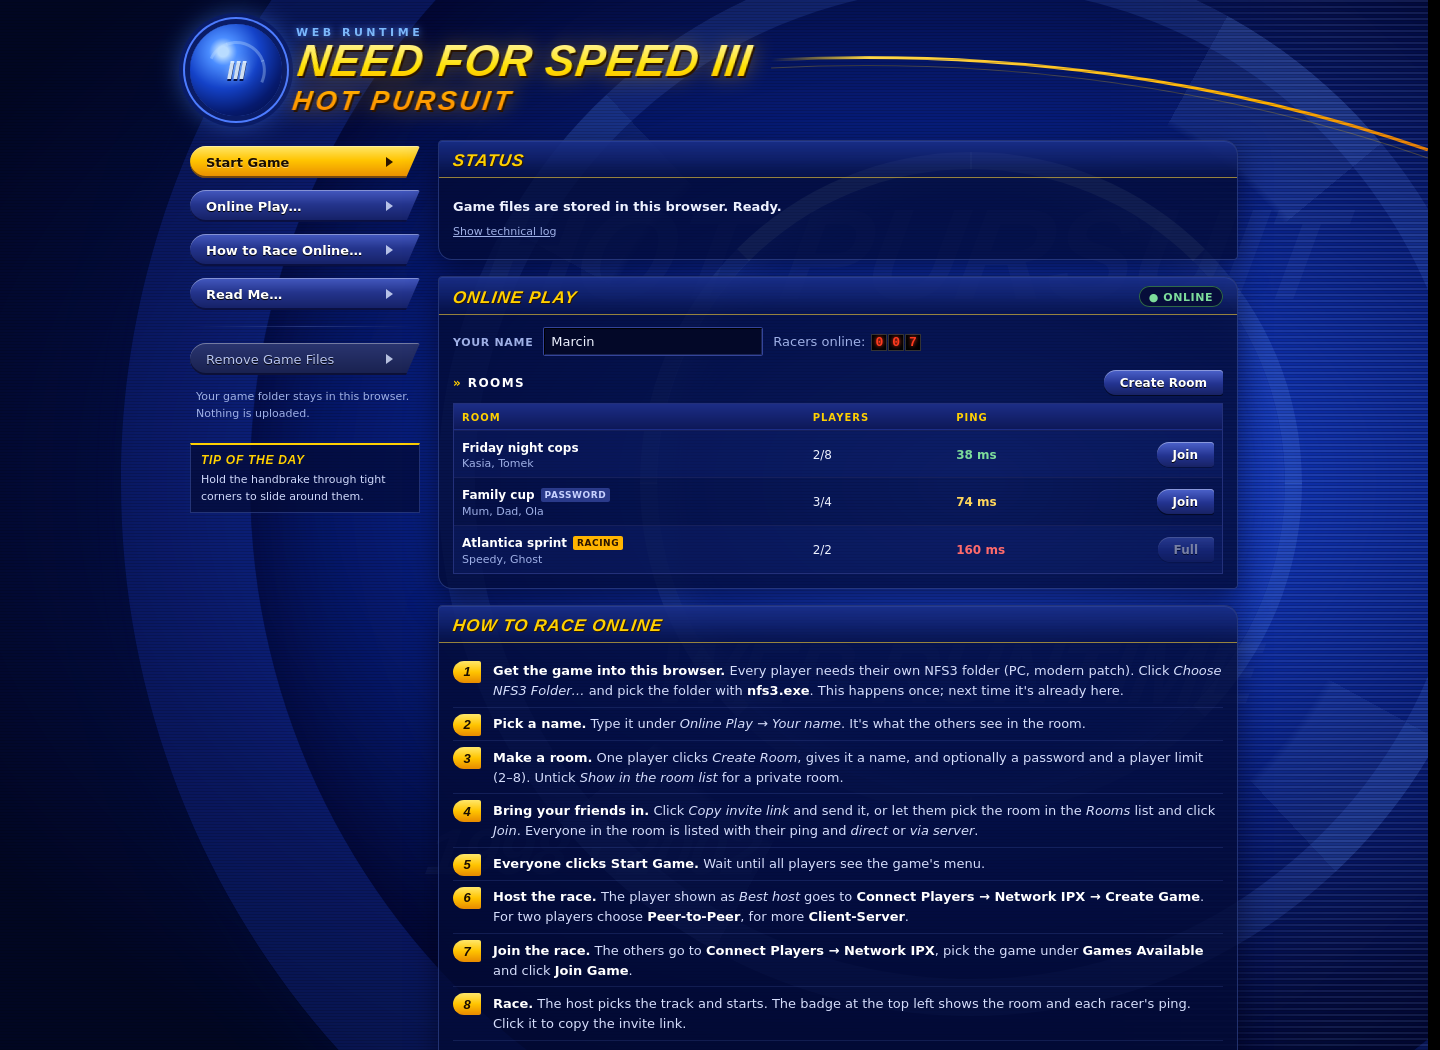
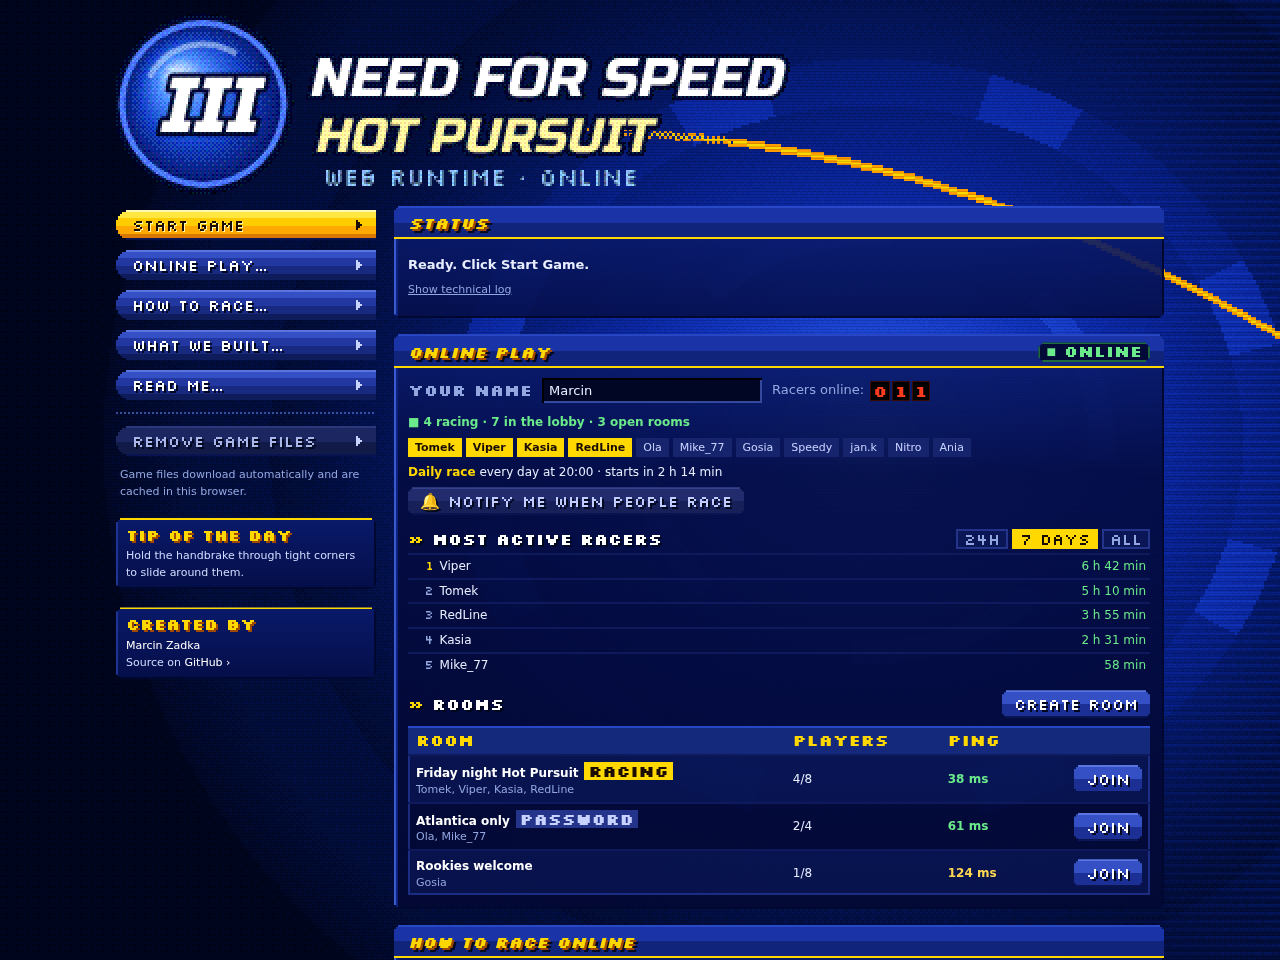
README screenshots and social preview in the new look
docs/og-card.html (the source of web/icons/og.png) now draws its backdrop
and logo with the site's own code; the README screenshots show the new
start page, a room and the phone layout. The README credits the fonts.

diff --git a/docs/og-card.html b/docs/og-card.html
@@ -1,41 +1,141 @@
 <!doctype html>
-<!-- Source of web/icons/og.png (1200x630 social preview). Render:
-     firefox --headless --no-remote --profile <tmp> --window-size=1200,630 --screenshot web/icons/og.png file://$PWD/docs/og-card.html -->
-<html><head><meta charset="utf-8"><style>
-  html, body { margin: 0; width: 1200px; height: 630px; overflow: hidden; background: #010622; font-family: Verdana, "DejaVu Sans", sans-serif; color: #eef2ff; }
-  .bg { position: absolute; inset: 0; background: radial-gradient(ellipse 75% 85% at 72% 50%, #2350e8 0%, #0e2fa8 28%, #061a72 52%, #030b3d 78%, #010622 100%); }
-  .ring { position: absolute; border-radius: 50%; left: 72%; top: 50%; transform: translate(-50%, -50%); }
-  .r1 { width: 1250px; height: 1250px; border: 95px solid rgba(30, 70, 220, .22); }
-  .r2 { width: 780px; height: 780px; border: 28px solid rgba(90, 140, 255, .15); }
-  .r3 { width: 430px; height: 430px; border: 10px solid rgba(160, 200, 255, .12); }
-  .stripes { position: absolute; right: 0; top: 0; bottom: 0; width: 260px; background: repeating-linear-gradient(0deg, rgba(150, 190, 255, .12) 0 2px, transparent 2px 9px);
-    -webkit-mask-image: linear-gradient(90deg, transparent, #000); mask-image: linear-gradient(90deg, transparent, #000); }
-  .scan { position: absolute; inset: 0; background: repeating-linear-gradient(0deg, rgba(0, 0, 0, .16) 0 1px, transparent 1px 3px); }
-  svg.arc { position: absolute; inset: 0; }
-  .orb { position: absolute; left: 70px; top: 70px; width: 150px; height: 150px; border-radius: 50%;
-    background: radial-gradient(circle at 36% 30%, #b9dcff 0 6%, #4b8dff 16%, #1442c8 42%, #061a6e 70%, #020a35 100%);
-    box-shadow: 0 0 0 8px #0a1c66, 0 0 0 11px #4d7cff, 0 0 0 17px #0a1c66, 0 0 40px 12px rgba(70, 130, 255, .55);
-    display: grid; place-items: center; font: italic 900 46px "Arial Black", "DejaVu Sans", sans-serif; color: #e1f0ff; text-shadow: 0 3px 0 #031047, 0 0 14px rgba(140, 190, 255, .9); letter-spacing: -2px; }
-  .txt { position: absolute; left: 70px; top: 262px; }
-  .kick { font: bold 22px Verdana, sans-serif; letter-spacing: .34em; text-transform: uppercase; color: #9fc0ff; }
-  h1 { margin: 6px 0 0; font: italic 900 96px/0.98 "Arial Black", "DejaVu Sans", sans-serif; text-transform: uppercase; letter-spacing: -1px;
-    background: linear-gradient(180deg, #fff6b0 0%, #ffd000 45%, #ff9900 100%); -webkit-background-clip: text; background-clip: text; color: transparent;
-    filter: drop-shadow(4px 4px 0 #2a1400) drop-shadow(0 0 18px rgba(255, 190, 0, .35)); }
-  h1 span { display: block; font-size: 62px; color: transparent; }
-  .tags { margin-top: 30px; display: flex; gap: 14px; }
-  .tag { font: bold 21px Verdana, sans-serif; color: #fff; padding: 9px 30px 9px 20px; background: linear-gradient(180deg, #4459c0 0%, #24348c 45%, #141f63 100%);
-    border-radius: 22px 4px 4px 22px; clip-path: polygon(0 0, 100% 0, calc(100% - 16px) 100%, 0 100%); text-shadow: 0 1px 1px #000; }
-  .tag.go { background: linear-gradient(180deg, #ffe76a 0%, #ffc400 45%, #e88a00 100%); color: #1a0d00; text-shadow: none; }
+<!-- Source of web/icons/og.png (1200x630 social preview), in the site's own style: the backdrop
+     and the logo are drawn by the same code as web/index.html. Render:
+     chrome --headless=new --hide-scrollbars --window-size=1200,630 --virtual-time-budget=4000 \
+       --screenshot=web/icons/og.png file://$PWD/docs/og-card.html -->
+<html><head><meta charset="utf-8"><base href="../web/"><style>
+  @font-face { font-family: "Silkscreen"; font-weight: 400; src: url(fonts/silkscreen-latin-400-normal.woff2) format("woff2"); }
+  @font-face { font-family: "Silkscreen"; font-weight: 700; src: url(fonts/silkscreen-latin-700-normal.woff2) format("woff2"); }
+  @font-face { font-family: "Russo One"; font-weight: 400; src: url(fonts/russo-one-latin-400-normal.woff2) format("woff2"); }
+  html, body { margin: 0; width: 1200px; height: 630px; overflow: hidden; background: #000418; color: #e8eeff; font-family: Verdana, "DejaVu Sans", sans-serif;
+    -webkit-font-smoothing: none; }
+  #bg { position: absolute; inset: 0; }
+  #bg canvas { position: absolute; inset: 0; width: 1200px; height: 630px; image-rendering: pixelated; }
+  #bg .scan { position: absolute; inset: 0; background: repeating-linear-gradient(0deg, rgba(0, 0, 0, .14) 0 1px, transparent 1px 3px); }
+  #logo { position: absolute; left: 60px; top: 56px; image-rendering: pixelated; }
+  .txt { position: absolute; left: 72px; top: 296px; }
+  .kick { font: 700 32px/1 "Silkscreen", monospace; color: #ffd800; text-transform: uppercase; text-shadow: 3px 3px 0 #6a2c00, 6px 6px 0 #000820; font-style: italic; }
+  .line { margin-top: 18px; font: bold 30px/1.35 Verdana, "DejaVu Sans", sans-serif; color: #e8eeff; text-shadow: 2px 2px 0 #000a30; max-width: 760px; }
+  .tags { margin-top: 34px; display: flex; gap: 16px; }
+  .tag { font: 400 24px/1 "Silkscreen", monospace; color: #fff; text-transform: uppercase; padding: 12px 22px 12px 26px; text-shadow: 2px 2px 0 #000820;
+    clip-path: polygon(14px 0, 100% 0, 100% 100%, 14px 100%, 14px calc(100% - 2px), 8px calc(100% - 2px), 8px calc(100% - 4px), 6px calc(100% - 4px), 6px calc(100% - 6px),
+      4px calc(100% - 6px), 4px calc(100% - 8px), 2px calc(100% - 8px), 2px calc(100% - 14px), 0 calc(100% - 14px), 0 14px, 2px 14px, 2px 8px, 4px 8px, 4px 6px, 6px 6px, 6px 4px, 8px 4px, 8px 2px, 14px 2px);
+    background: linear-gradient(180deg, #5a74e0 0 3px, #3550c4 3px 12px, #2238a0 12px 24px, #172a80 24px 36px, #0e1c5c 36px); }
+  .tag.go { color: #1a0c00; text-shadow: 2px 2px 0 #fff6b0; background: linear-gradient(180deg, #fff8b0 0 3px, #ffe640 3px 12px, #ffcc00 12px 24px, #ffa800 24px 36px, #d87800 36px); }
+  .url { position: absolute; right: 60px; bottom: 44px; font: 700 28px/1 "Silkscreen", monospace; color: #8cc4ff; text-shadow: 3px 3px 0 #000820; }
 </style></head><body>
-  <div class="bg"></div><div class="ring r1"></div><div class="ring r2"></div><div class="ring r3"></div>
-  <div class="stripes"></div>
-  <svg class="arc" viewBox="0 0 1200 630"><path d="M600 40 C 820 26, 1020 70, 1180 160" fill="none" stroke="#ffd000" stroke-width="7" stroke-linecap="round"/>
-    <path d="M640 600 C 860 560, 1040 520, 1200 440" fill="none" stroke="#ffd000" stroke-opacity=".5" stroke-width="4"/></svg>
-  <div class="orb">III</div>
+  <div id="bg" aria-hidden="true"><canvas id="bgc" width="400" height="210"></canvas><div class="scan"></div></div>
+  <canvas id="logo" width="360" height="90"></canvas>
   <div class="txt">
     <div class="kick">Play in your browser</div>
-    <h1>NFS3<span>Hot Pursuit</span></h1>
-    <div class="tags"><div class="tag go">No install</div><div class="tag">Online multiplayer</div><div class="tag">WebGL&nbsp;2</div></div>
+    <div class="line">The 1998 classic, recompiled for the web. Original handling, tracks and music.</div>
+    <div class="tags"><div class="tag go">No install</div><div class="tag">Online multiplayer</div><div class="tag">WebGL 2</div></div>
   </div>
-  <div class="scan"></div>
+  <div class="url">nfs3.xyz</div>
+<script>
+// Lo-fi look (see the comment at the top): the backdrop and the logo are drawn at low resolution
+// with an ordered (Bayer) dither to a small palette and shown scaled up with hard pixels.
+(() => {
+  const BAYER = [0, 8, 2, 10, 12, 4, 14, 6, 3, 11, 1, 9, 15, 7, 13, 5].map((v) => (v + .5) / 16);
+  const hex = (h) => [1, 3, 5].map((i) => parseInt(h.slice(i, i + 2), 16));
+  const RAMP = ['#000418', '#010a30', '#03124e', '#05196e', '#08218e', '#0c2cac', '#1438c4', '#1e48d8', '#3060e8', '#4c7cf4', '#7aa4ff', '#b0ccff'].map(hex);
+  const BLUES = [];                                                             // 34 shades: a gentle dither, not a blocky one
+  for (let i = 0; i < RAMP.length - 1; i++) for (let k = 0; k < 3; k++) BLUES.push(RAMP[i].map((v, c) => Math.round(v + (RAMP[i + 1][c] - v) * k / 3)));
+  BLUES.push(RAMP.at(-1));
+  const GOLD = ['#5a2400', '#a04800', '#e07800', '#ff9c00', '#ffc000', '#ffd800', '#fff080'].map(hex);
+  const reduce = matchMedia('(prefers-reduced-motion: reduce)').matches;
+
+  // ---- backdrop: big rings around a glow, a rotating segmented ring, a gold arc, stripes
+  const bg = document.getElementById('bgc'), bx = bg.getContext('2d');
+  let W = 400, H = 210, img = null;
+  function size() {
+    H = 210;
+    if (bg.height !== H) { bg.width = W; bg.height = H; }
+    img = bx.createImageData(W, H);
+  }
+  function arcY(x) { const t = (x - .45 * W) / (.55 * W); return Math.min(W * .1, H * .16) + W * .16 * t * t; }   // sweeps down to the right, behind the header
+  function drawBg(t) {
+    const d = img.data, cx = .68 * W, cy = .46 * H, R = Math.max(W, H * 1.2);
+    const rot = reduce ? 0 : t * .00012;
+    for (let y = 0; y < H; y++) for (let x = 0; x < W; x++) {
+      const dx = (x - cx) / R, dy = (y - cy) / R * 1.1, r = Math.hypot(dx, dy), a = Math.atan2(dy, dx);
+      let v = Math.max(0, 1 - r / .62) ** 1.6 * .78 + .04;                      // glow
+      if (r > .47 && r < .60) v += .07 - Math.abs(r - .535) * .6;              // outer ring
+      if (r > .29 && r < .33) { const s = ((a + rot) / (Math.PI / 4) % 1 + 1) % 1; v += s < .3 ? .16 : .04; }  // segmented ring
+      if (r > .17 && r < .19) { const s = ((a - rot * 1.6) / (Math.PI / 2) % 1 + 1) % 1; v += s < .55 ? .1 : 0; }
+      if (x > W * .8 && y % 3 === 0) v += (x - W * .8) / (W * .2) * .08;       // right stripes
+      const k = BAYER[(y & 3) * 4 + (x & 3)];
+      const i = Math.max(0, Math.min(BLUES.length - 1, Math.floor(v * (BLUES.length - 1) + k - .5)));
+      const c = BLUES[i], o = (y * W + x) * 4;
+      d[o] = c[0]; d[o + 1] = c[1]; d[o + 2] = c[2]; d[o + 3] = 255;
+    }
+    if (W > H * 1.2) for (let x = Math.round(W * .45); x < W; x++) {           // gold arc (landscape only), fading in from the left
+      const y = Math.round(arcY(x)), f = (x - W * .45) / (W * .14);
+      for (let w = 0; w < 3; w++) {
+        if (y + w < 0 || y + w >= H || f < BAYER[((y + w) & 3) * 4 + (x & 3)]) continue;
+        const c = GOLD[w === 1 ? 5 : 3], o = ((y + w) * W + x) * 4;
+        d[o] = c[0]; d[o + 1] = c[1]; d[o + 2] = c[2];
+      }
+    }
+    bx.putImageData(img, 0, 0);
+  }
+  let last = 0;
+  function frame(t) {
+    const live = !document.hidden && !document.getElementById('bg').hidden;
+    if (live && t - last >= 83) { last = t; drawBg(t); }                      // 12 fps, like it's 1998
+    if (!reduce) requestAnimationFrame(frame);
+  }
+  size(); drawBg(0); requestAnimationFrame(frame);
+  addEventListener('resize', () => { size(); drawBg(performance.now()); });
+
+  // ---- logo: an orb with a chrome "III", chrome NEED FOR SPEED, gold HOT PURSUIT
+  const lg = document.getElementById('logo'), lx = lg.getContext('2d', { willReadFrequently: true });
+  const LW = lg.width, LH = lg.height, K = LW / 240;                         // laid out on a 240x60 grid
+  function chrome(y0, y1) {
+    const g = lx.createLinearGradient(0, y0, 0, y1);
+    g.addColorStop(0, '#ffffff'); g.addColorStop(.42, '#a8d0ff'); g.addColorStop(.5, '#1c3a98'); g.addColorStop(.62, '#5a8cf0'); g.addColorStop(1, '#e4f2ff');
+    return g;
+  }
+  function gold(y0, y1) {
+    const g = lx.createLinearGradient(0, y0, 0, y1);
+    g.addColorStop(0, '#fff6a0'); g.addColorStop(.45, '#ffd800'); g.addColorStop(.75, '#ff9c00'); g.addColorStop(1, '#c05000');
+    return g;
+  }
+  function word(text, x, y, px, fill, font = 'Russo One') {
+    lx.save(); lx.translate(x, y); lx.transform(1, 0, -.22, 1, 0, 0);           // italic slant
+    lx.font = `${px}px "${font}", "Arial Black", Impact, sans-serif`; lx.textBaseline = 'alphabetic';
+    lx.lineJoin = 'round'; lx.lineWidth = 3; lx.strokeStyle = '#000a34'; lx.strokeText(text, 0, 0);
+    lx.fillStyle = fill; lx.fillText(text, 0, 0); lx.restore();
+  }
+  function drawLogo() {
+    lx.setTransform(1, 0, 0, 1, 0, 0); lx.clearRect(0, 0, LW, LH); lx.setTransform(K, 0, 0, K, 0, 0);
+    const ox = 29, oy = 30, or = 27;                                        // the orb
+    const sg = lx.createRadialGradient(ox - 9, oy - 10, 2, ox, oy, or);
+    sg.addColorStop(0, '#c0dcff'); sg.addColorStop(.25, '#4b8dff'); sg.addColorStop(.6, '#1442c8'); sg.addColorStop(1, '#041568');
+    lx.beginPath(); lx.arc(ox, oy, or + 3, 0, 7); lx.fillStyle = '#000a34'; lx.fill();
+    lx.beginPath(); lx.arc(ox, oy, or + 1, 0, 7); lx.fillStyle = '#4d7cff'; lx.fill();
+    lx.beginPath(); lx.arc(ox, oy, or - 1, 0, 7); lx.fillStyle = sg; lx.fill();
+    lx.beginPath(); lx.arc(ox, oy, or - 7, 3.6, 5.3); lx.strokeStyle = 'rgba(200,225,255,.55)'; lx.lineWidth = 2; lx.stroke();
+    word('III', ox - 15, oy + 9, 26, chrome(oy - 11, oy + 9));
+    word('NEED FOR SPEED', 64, 27, 18, chrome(13, 27));
+    word('HOT PURSUIT', 66, 46, 16, gold(34, 46));
+    lx.save(); lx.font = '8px Silkscreen, monospace'; lx.fillStyle = '#8cc4ff'; lx.fillText('WEB RUNTIME · ONLINE', 69, 57); lx.restore();
+    lx.setTransform(1, 0, 0, 1, 0, 0);
+    const id = lx.getImageData(0, 0, LW, LH), d = id.data;                     // hard edges, 8 levels per channel, dithered
+    for (let y = 0; y < LH; y++) for (let x = 0; x < LW; x++) {
+      const o = (y * LW + x) * 4, k = BAYER[(y & 3) * 4 + (x & 3)];
+      if (d[o + 3] < 110) { d[o + 3] = 0; continue; }
+      const a = d[o + 3] / 255;
+      for (let c = 0; c < 3; c++) { const v = d[o + c] / 255 * a; d[o + c] = Math.min(7, Math.floor(v * 7 + k)) * 255 / 7; }
+      d[o + 3] = 255;
+    }
+    lx.putImageData(id, 0, 0);
+  }
+  function fitLogo() {
+    lg.style.width = LW * 2 + 'px';
+  }
+  fitLogo(); drawLogo(); addEventListener('resize', fitLogo);
+  Promise.all(['18px "Russo One"', '8px Silkscreen'].map((f) => document.fonts.load(f))).then(drawLogo, () => {});
+})();
+</script>
 </body></html>

diff --git a/README.md b/README.md
@@ -226,7 +226,7 @@ bugs much easier to chase than in a browser.
 
 - ✅ Menus, car showcase, single races, Hot Pursuit, GPU rendering, sound, keyboard and mouse
 - ✅ Online: lobby, rooms with passwords, 2-player races tested across browsers
-- 🚧 Next: rollback (prediction) netcode so clients have no input lag either; the lobby name as the in-game name; wider browser testing
+- 🚧 Next: rollback (prediction) netcode so clients have no input lag either; wider browser testing
 
 ## Credits
 
@@ -236,6 +236,7 @@ Made by **[Marcin Zadka](https://github.com/mrz944)**.
 - [NFS3 Modern Patch](https://veg.by/en/projects/nfs3/) by VEG is the patched game this project runs.
 - [OpenNFS](https://github.com/OpenNFS/OpenNFS) was a reference for the game's data formats.
 - [Capstone](https://www.capstone-engine.org/) and [Emscripten](https://emscripten.org/) make this possible.
+- Site fonts: [Silkscreen](https://github.com/googlefonts/silkscreen) and [Russo One](https://fonts.google.com/specimen/Russo+One), both under the SIL Open Font License (`web/fonts/`).
 
 *Need for Speed* and *Hot Pursuit* are trademarks of Electronic Arts. This is an unofficial fan
 project, not affiliated with or endorsed by EA. Generated builds and game assets remain
